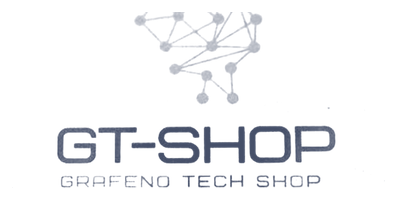
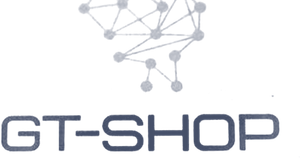
El caso de GT-SHOP, firmado por su dueño
Tres correcciones de Alan sobre lo de ayer.

«Empresas que ya operan así» pasa a **«Casos de éxito»**, que es como lo busca
quien llega: en el título de la sección y en el enlace del pie.

**GT-SHOP no es Grafeno Tech Shop.** Sale del renglón de abajo del logotipo
—recortado— y de la descripción del caso, que ahora dice lo que sí son: venta,
instalación y mantenimiento de cámaras y equipo de seguridad.

**El caso lo firma Eduardo Díaz**, dueño de GT-SHOP, con una frase suya. Un
caso firmado convence más que tres párrafos nuestros, así que la cita dejó de
ser un renglón gris en cursiva al final de la tarjeta: se lee como titular, con
la tipografía de titular y a tamaño de entrada, y la firma va monoespaciada y
en cobre, igual que las demás etiquetas de dato. La regla es cobre y no morada
porque el bloque de resultado, justo arriba, ya es morado.

El alcance también creció, porque era más de lo que yo había escrito: no es
sólo la tienda sobre Shopify, es el ecosistema alrededor —catálogo, pago,
envío, factura y devolución en el mismo flujo— con la instalación y el
mantenimiento como parte de la venta, que es lo que hace su propia gente.

Con un solo caso la tarjeta de 440 px dejaba media pantalla en blanco y
estiraba el texto a pantalla y media. Arriba de 900 px el caso único se abre a
dos columnas —quién es y qué dijo a la izquierda, qué se hizo a la derecha— y
cabe entero en una pantalla. En celular sigue apilado.
[…]

Changed region(s): [[0.0, 0.6076, 0.96, 0.962], [0.24, 0.0, 0.69, 0.5823]]

diff --git a/src/data/casos.js b/src/data/casos.js
@@ -1,11 +1,15 @@
 /*
- * Casos reales para la sección "Resultados con clientes". La sección y el
- * enlace del footer aparecen sólo cuando este arreglo tiene al menos un caso.
+ * Casos de éxito. La sección `#casos` y el enlace del footer aparecen sólo
+ * cuando este arreglo tiene al menos un caso.
  *
  * Reglas: nada inventado ni redondeado hacia arriba. Si el cliente no autoriza
  * su nombre, se describe por giro, tamaño y ciudad ("Distribuidora de 45
  * empleados en Ecatepec") y se deja `cliente` vacío. Los resultados deben
  * ser medibles y haberse medido de verdad.
+ *
+ * La cita va **con el nombre de quien la dijo**, y se publica sólo con su
+ * visto bueno: es su palabra, no la nuestra. Un caso firmado por el dueño
+ * pesa más que tres párrafos escritos por nosotros.
  *
  * Campos:
  *   cliente      nombre comercial, o '' si es anónimo
@@ -17,24 +21,23 @@
  *                medición, se describe lo que sí es verificable y se deja el
  *                número para cuando exista. Jamás una cifra estimada.
  *   logo         ruta en public/clientes/, sólo con autorización de marca
- *   sitio        URL pública del cliente, opcional
- *   cita, autor  frase textual y quién la dijo, opcionales
+ *   cita, autor  frase textual y quién la dijo, aprobadas por esa persona
  *
  * Para preparar un logotipo: `node scripts/logo-cliente.js <origen> <destino>`.
  */
 export const CASOS = [
   {
     cliente: 'GT-SHOP',
-    descripcion: 'Grafeno Tech Shop · venta de cámaras y equipo de seguridad',
+    descripcion: 'Venta, instalación y mantenimiento de cámaras y equipo de seguridad',
     servicio: 'Comercio en línea',
     reto:
-      'Vender en línea su catálogo de cámaras y equipo de seguridad sin montar una operación aparte de la del mostrador.',
+      'Quien compra una cámara también espera que se la instalen y le den mantenimiento. Vender en línea tenía que sostener las tres cosas con la misma operación.',
     solucion:
-      'Tienda en línea sobre Shopify, con el catálogo, los pagos y los envíos conectados en un mismo flujo.',
+      'Tienda en línea sobre Shopify y el ecosistema completo alrededor: catálogo, pago, envío, factura y devolución en un mismo flujo, con la instalación y el mantenimiento como parte de la venta.',
     resultado:
-      'La tienda opera en línea: el catálogo se publica desde un solo lugar y cada pedido entra con su pago y su envío.',
+      'Un pedido entra y sale completo —se cobra, se entrega, se instala, se factura y, si hace falta, se devuelve— dentro del mismo sistema.',
     logo: '/clientes/gt-shop.png',
-    cita: '',
-    autor: '',
+    cita: 'Vendemos la cámara, la instalamos y le damos mantenimiento. Ahora todo eso es una sola venta.',
+    autor: 'Eduardo Díaz · GT-SHOP',
   },
 ]

diff --git a/src/components/Casos.css b/src/components/Casos.css
@@ -10,6 +10,34 @@
   gap: var(--sp-5);
   padding: var(--sp-6);
 }
+
+/* Un solo caso: se reparte en dos columnas en cuanto hay ancho para las dos.
+   Apilado ocupaba una pantalla y media de texto en una columna de 440 px. */
+.casos__grid--uno {
+  grid-template-columns: minmax(0, 940px);
+}
+@media (min-width: 900px) {
+  .casos__grid--uno .caso {
+    display: grid;
+    grid-template-columns: minmax(0, 0.9fr) minmax(0, 1fr);
+    grid-template-areas:
+      "quien qué"
+      "cita qué";
+    align-content: start;
+    gap: var(--sp-6) var(--sp-8);
+    padding: var(--sp-8);
+  }
+  .casos__grid--uno .caso__head {
+    grid-area: quien;
+  }
+  .casos__grid--uno .caso__cita {
+    grid-area: cita;
+    align-self: start;
+  }
+  .casos__grid--uno .caso__detalle {
+    grid-area: qué;
+  }
+}
 .caso__head {
   display: flex;
   flex-direction: column;
@@ -53,20 +81,36 @@
   color: var(--text-900);
   font-weight: 600;
 }
+/* La cita cierra la tarjeta y es lo que más convence, así que se lee como
+   titular: tipografía de titular, tamaño de entrada y al color del texto
+   fuerte. En cursiva y en gris chico —como estaba— se leía como pie de
+   página. La regla es cobre, no morada: el morado ya lo trae el bloque de
+   resultado justo arriba y dos moradas seguidas se anulan. */
 .caso__cita {
   margin: 0;
-  padding-left: var(--sp-4);
-  border-left: 3px solid var(--purple-400);
-  font-size: var(--fs-sm);
-  font-style: italic;
-  color: var(--text-600);
-}
-.caso__cita footer {
-  margin-top: var(--sp-2);
-  font-size: var(--fs-xs);
-  font-style: normal;
-  font-weight: 600;
+  padding-left: var(--sp-5);
+  border-left: 3px solid var(--copper-500);
+  font-family: var(--font-display);
+  font-size: var(--fs-h3);
+  font-weight: 500;
+  line-height: var(--lh-snug);
   color: var(--text-900);
+  text-wrap: pretty;
+}
+.caso__cita p {
+  margin: 0;
+}
+/* Quién lo dijo, como la firma de un crédito: monoespaciada y en cobre, igual
+   que las etiquetas de dato del resto de la página. Firmada se puede
+   comprobar; sin nombre sería una frase nuestra. */
+.caso__cita footer {
+  margin-top: var(--sp-3);
+  font-family: var(--font-mono);
+  font-size: var(--fs-2xs);
+  font-weight: 500;
+  letter-spacing: var(--ls-caps);
+  text-transform: uppercase;
+  color: var(--copper-500);
 }
 
 /* El logotipo del cliente: un solo tono, a media altura de una línea de

diff --git a/src/components/Casos.jsx b/src/components/Casos.jsx
@@ -3,8 +3,11 @@ import { CASOS } from '../data/casos'
 import './Casos.css'
 
 /*
- * Prueba social. No renderiza nada hasta que src/data/casos.js tenga al menos
+ * Casos de éxito. No renderiza nada hasta que src/data/casos.js tenga al menos
  * un caso real; el footer también oculta su enlace mientras tanto.
+ *
+ * La cita cierra la tarjeta y va firmada: la frase del dueño convence más que
+ * cualquier párrafo nuestro, y firmada se puede comprobar.
  */
 export default function Casos() {
   if (CASOS.length === 0) return null
@@ -14,13 +17,16 @@ export default function Casos() {
       <div className="container">
         <header className="section__head">
           <span className="eyebrow">Clientes</span>
-          <h2>Empresas que ya operan así</h2>
+          <h2>Casos de éxito</h2>
           <p className="section__subtitle">
-            Qué se construyó y qué cambió. Su marca aparece aquí porque ellos lo autorizaron.
+            Qué se construyó, qué cambió y lo que dice quien lo opera todos los días.
           </p>
         </header>
 
-        <ul className="casos__grid">
+        {/* Con un solo caso, la tarjeta angosta dejaba media pantalla en blanco y
+            estiraba el texto a diez renglones. Con uno solo se abre a dos columnas:
+            quién es y qué dijo a la izquierda, qué se hizo a la derecha. */}
+        <ul className={`casos__grid${CASOS.length === 1 ? ' casos__grid--uno' : ''}`}>
           {CASOS.map((c) => (
             <li key={c.descripcion} className="card caso">
               <div className="caso__head">

diff --git a/src/components/Footer.jsx b/src/components/Footer.jsx
@@ -30,7 +30,7 @@ const COLUMNS = [
     title: 'Empresa',
     links: [
       { label: 'Quiénes somos', href: '/#nosotros' },
-      ...(CASOS.length ? [{ label: 'Resultados con clientes', href: '/#casos' }] : []),
+      ...(CASOS.length ? [{ label: 'Casos de éxito', href: '/#casos' }] : []),
       { label: 'Preguntas frecuentes', href: '/#faq' },
       { label: 'Aviso de privacidad', href: '/aviso-de-privacidad' },
     ],
